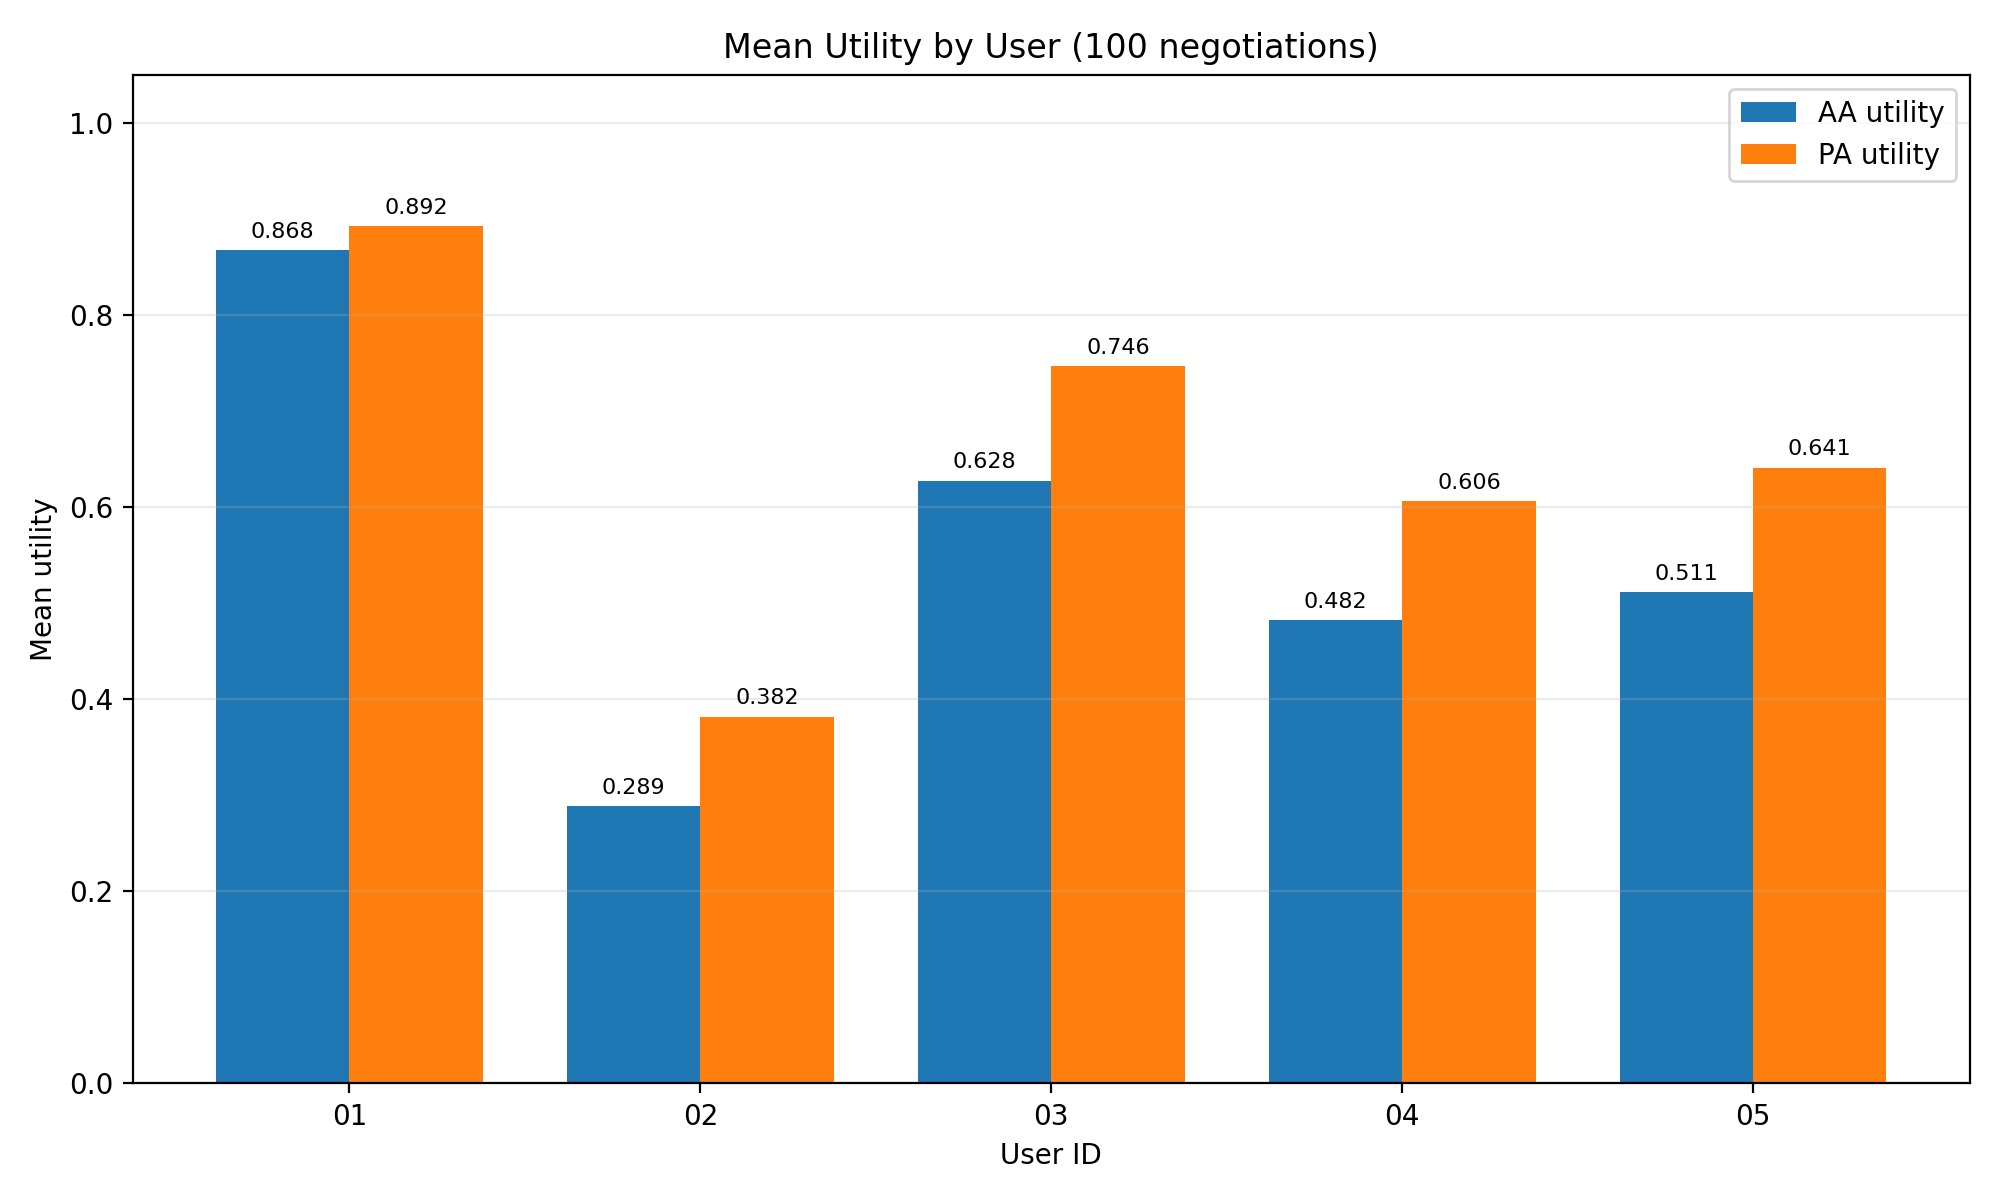
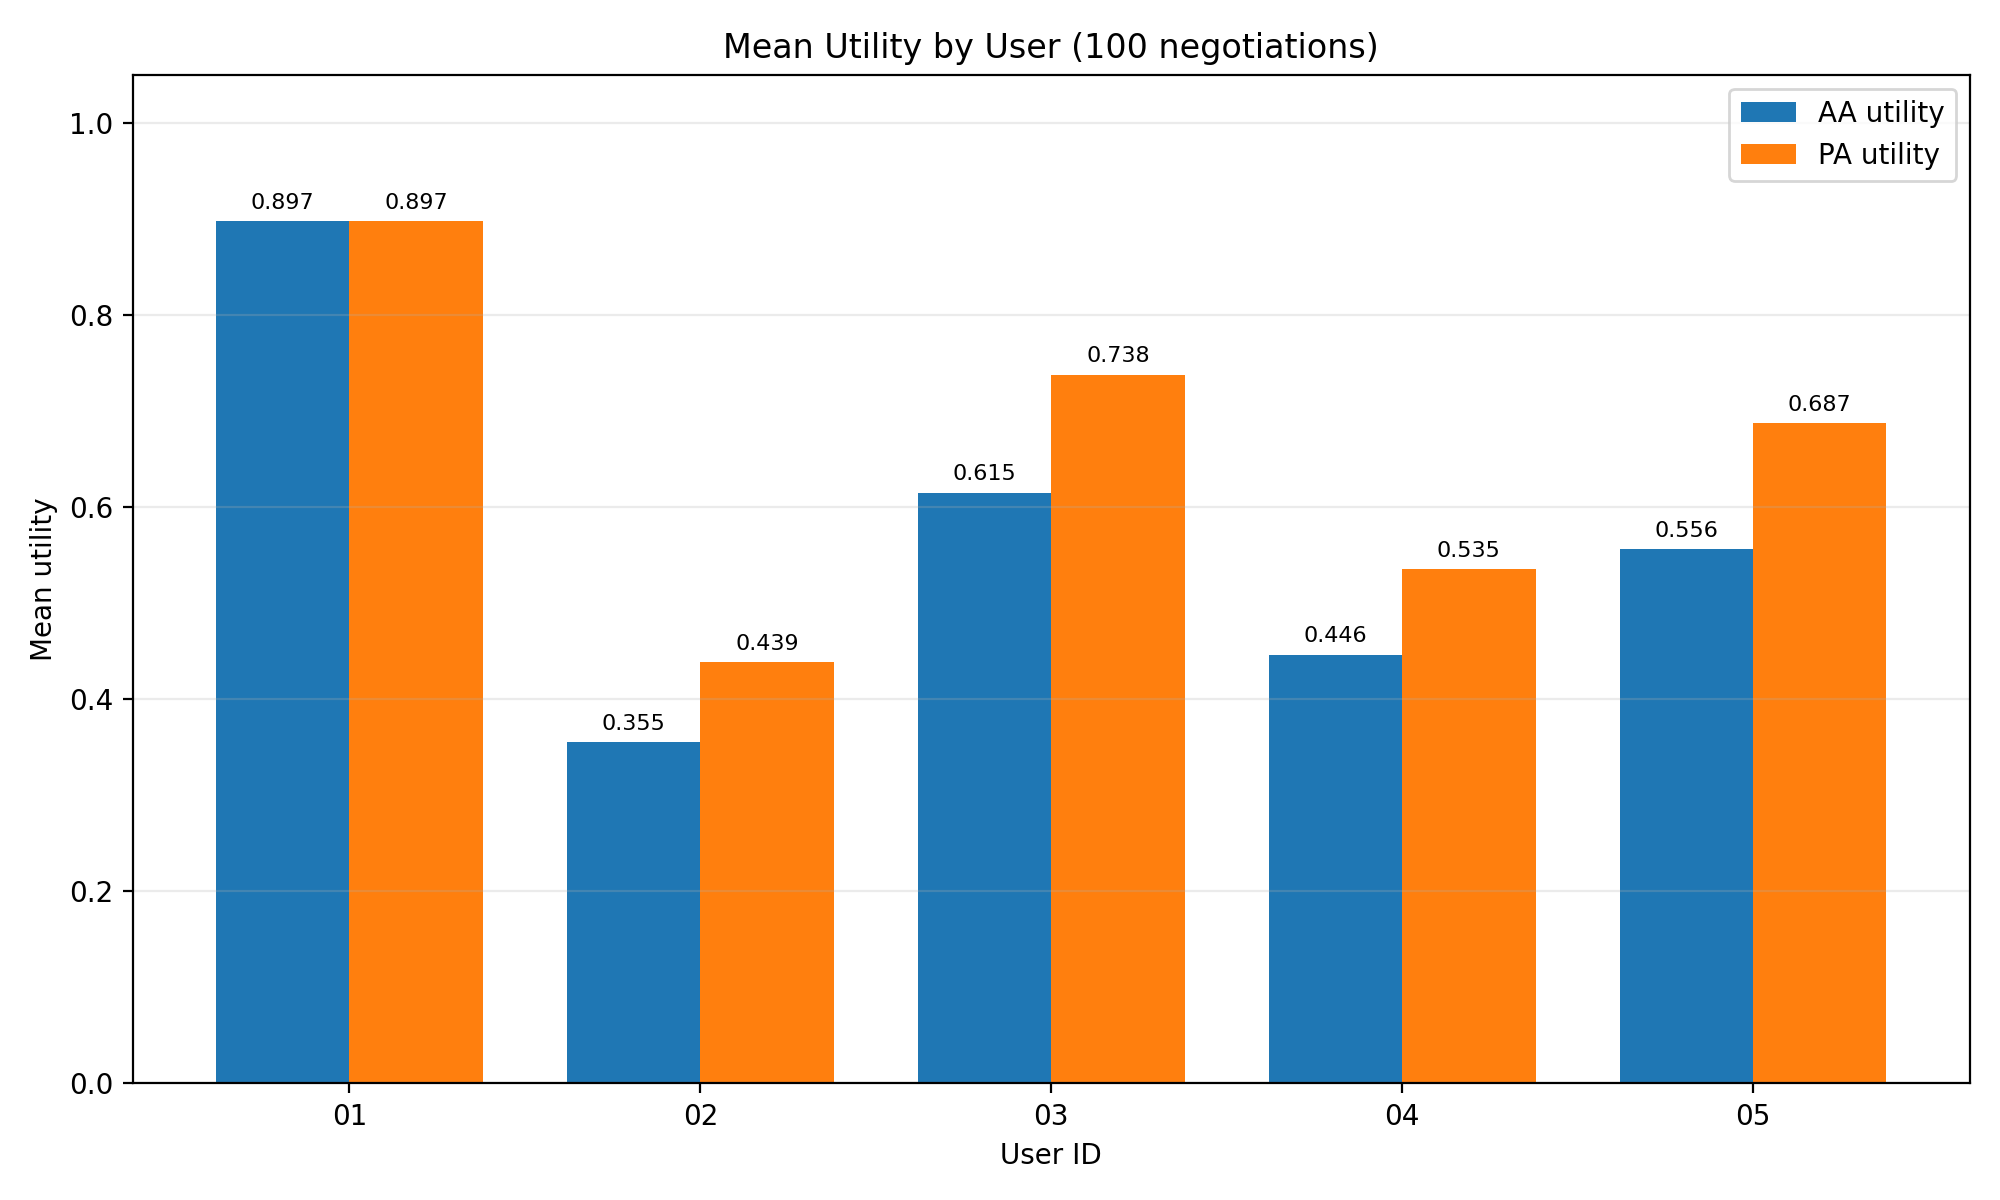
実験書ききれない定期

diff --git a/negotiation/testRunNegmas.py b/negotiation/testRunNegmas.py
@@ -155,7 +155,7 @@ def run_repeated_negotiations_and_plot(
     output_plot: Path,
     trials_per_user: int = 100,
     current_load: float = 0.75,
-    max_steps: int = 100,
+    max_steps: int = 30,
     comfort_weight: float = 0.1,
     base_random_seed: int = 7,
 ) -> list[dict]:
@@ -174,6 +174,7 @@ def run_repeated_negotiations_and_plot(
         settings_before = shared_state.get_user_issue_settings(user_id)
         aa_utilities: list[float] = []
         pa_utilities: list[float] = []
+        predicted_loads: list[float] = []
         accepted_count = 0
         step_counts: list[int] = []
 
@@ -193,6 +194,7 @@ def run_repeated_negotiations_and_plot(
                 random_seed=random_seed,
                 persist_agreement=False,
             )
+            predicted_loads.append(result.predicted_load)
 
             # 長時間の反復テストでも進行状況を確認できるよう、
             # 交渉が1回終わるたびにユーザIDと完了回数を表示する。
@@ -232,6 +234,8 @@ def run_repeated_negotiations_and_plot(
                 "std_U_AA": pstdev(aa_utilities),
                 "mean_U_PA": fmean(pa_utilities),
                 "std_U_PA": pstdev(pa_utilities),
+                "mean_predicted_load": fmean(predicted_loads),
+                "std_predicted_load": pstdev(predicted_loads),
                 "mean_steps": fmean(step_counts),
                 "state_unchanged": True,
                 "L_current": current_load,

diff --git a/negotiation/test_protocol.py b/negotiation/test_protocol.py
@@ -59,7 +59,7 @@ class NegotiationProtocolTests(unittest.TestCase):
         self.assertIn(Critique("guidance", "decrease", 1.0), critiques)
 
     def test_agreement_updates_shared_state(self) -> None:
-        result = run_negotiation("01", 0.75, max_steps=20, random_seed=7)
+        result = run_negotiation("01", 0.75, max_steps=30, random_seed=7)
         self.assertTrue(result.accepted)
         self.assertEqual(result.engine, "negmas")
         self.assertEqual(
@@ -74,7 +74,7 @@ class NegotiationProtocolTests(unittest.TestCase):
         self.assertTrue(issubclass(NegmasPlayerAgent, SAONegotiator))
 
     def test_only_aa_proposes_in_negmas_session(self) -> None:
-        result = run_negotiation("01", 0.75, max_steps=20, random_seed=7)
+        result = run_negotiation("01", 0.75, max_steps=30, random_seed=7)
         self.assertGreater(len(result.steps), 0)
         self.assertTrue(all(step.offer for step in result.steps))
 
@@ -83,7 +83,7 @@ class NegotiationProtocolTests(unittest.TestCase):
         result = run_negotiation(
             "01",
             0.75,
-            max_steps=20,
+            max_steps=30,
             random_seed=7,
             persist_agreement=False,
         )

diff --git a/negotiation/negmas_protocol.py b/negotiation/negmas_protocol.py
@@ -205,7 +205,7 @@ class NegmasNegotiationManager:
         *,
         load_low: float = 0.3,
         load_high: float = 0.7,
-        max_steps: int = 100,
+        max_steps: int = 30,
         comfort_weight: float = 0.0,
         random_seed: int | None = None,
         persist_agreement: bool = True, # 実際にshared_stateを更新する場合はTrue, 交渉だけのテスト実行の場合はFalse
@@ -348,7 +348,7 @@ def run_negotiation(
     *,
     load_low: float = 0.3,
     load_high: float = 0.7,
-    max_steps: int = 100,
+    max_steps: int = 30,
     comfort_weight: float = 0.1,
     random_seed: int | None = None,
     persist_agreement: bool = True,

diff --git a/negotiation/protocol.py b/negotiation/protocol.py
@@ -314,7 +314,7 @@ class NegotiationManager:
         *,
         load_low: float = 0.3,
         load_high: float = 0.7,
-        max_steps: int = 100,
+        max_steps: int = 30,
         comfort_weight: float = 0.1,
         random_seed: int | None = None,
     ) -> None:
@@ -433,7 +433,7 @@ def run_negotiation(
     *,
     load_low: float = 0.3,
     load_high: float = 0.7,
-    max_steps: int = 100,
+    max_steps: int = 30,
     comfort_weight: float = 0.1,
     random_seed: int | None = None,
 ) -> NegotiationResult:
